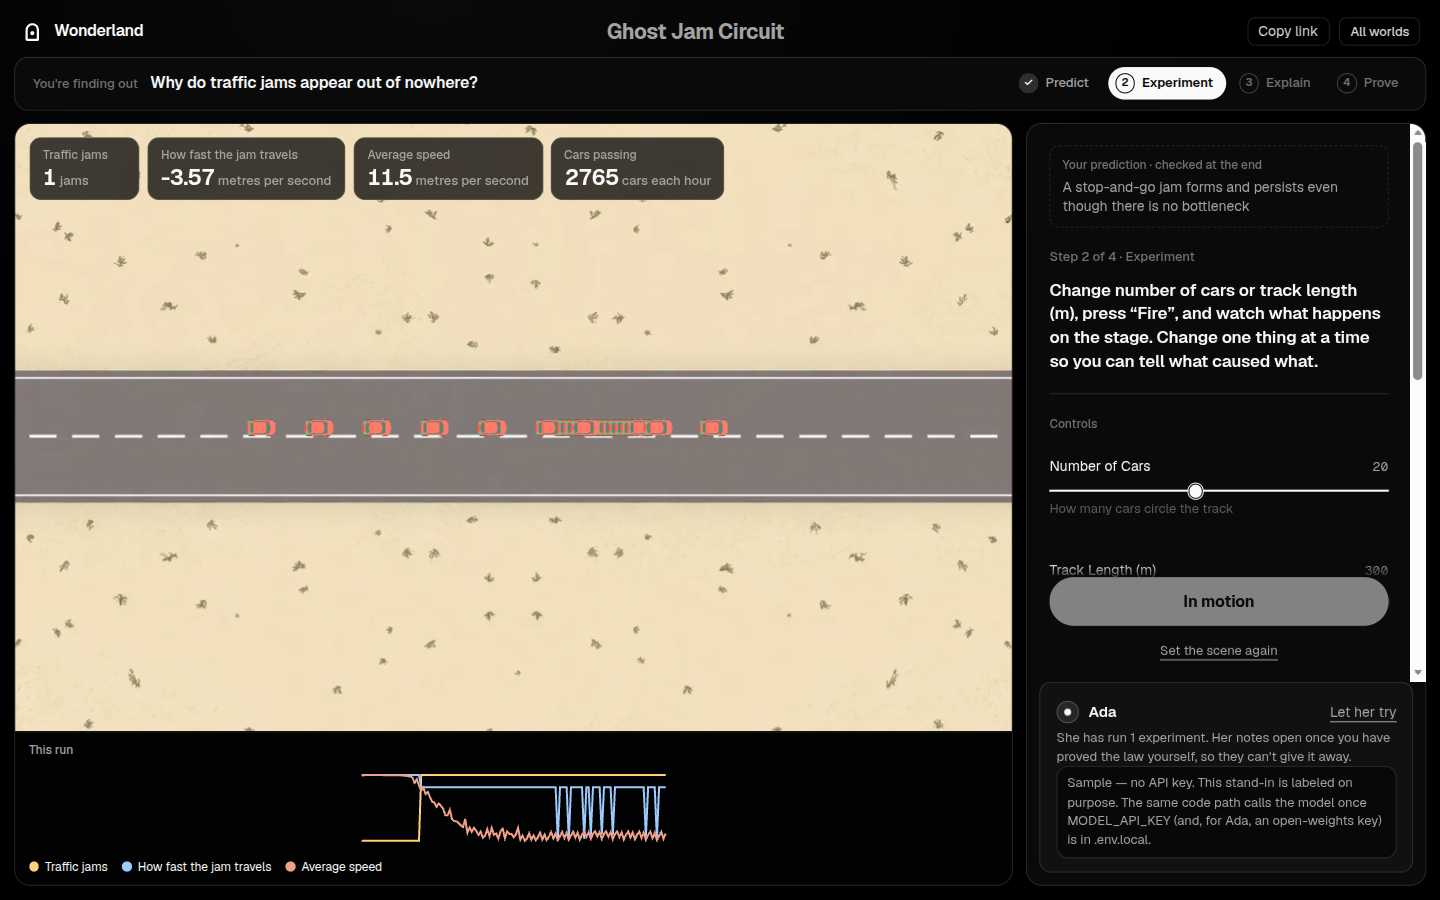
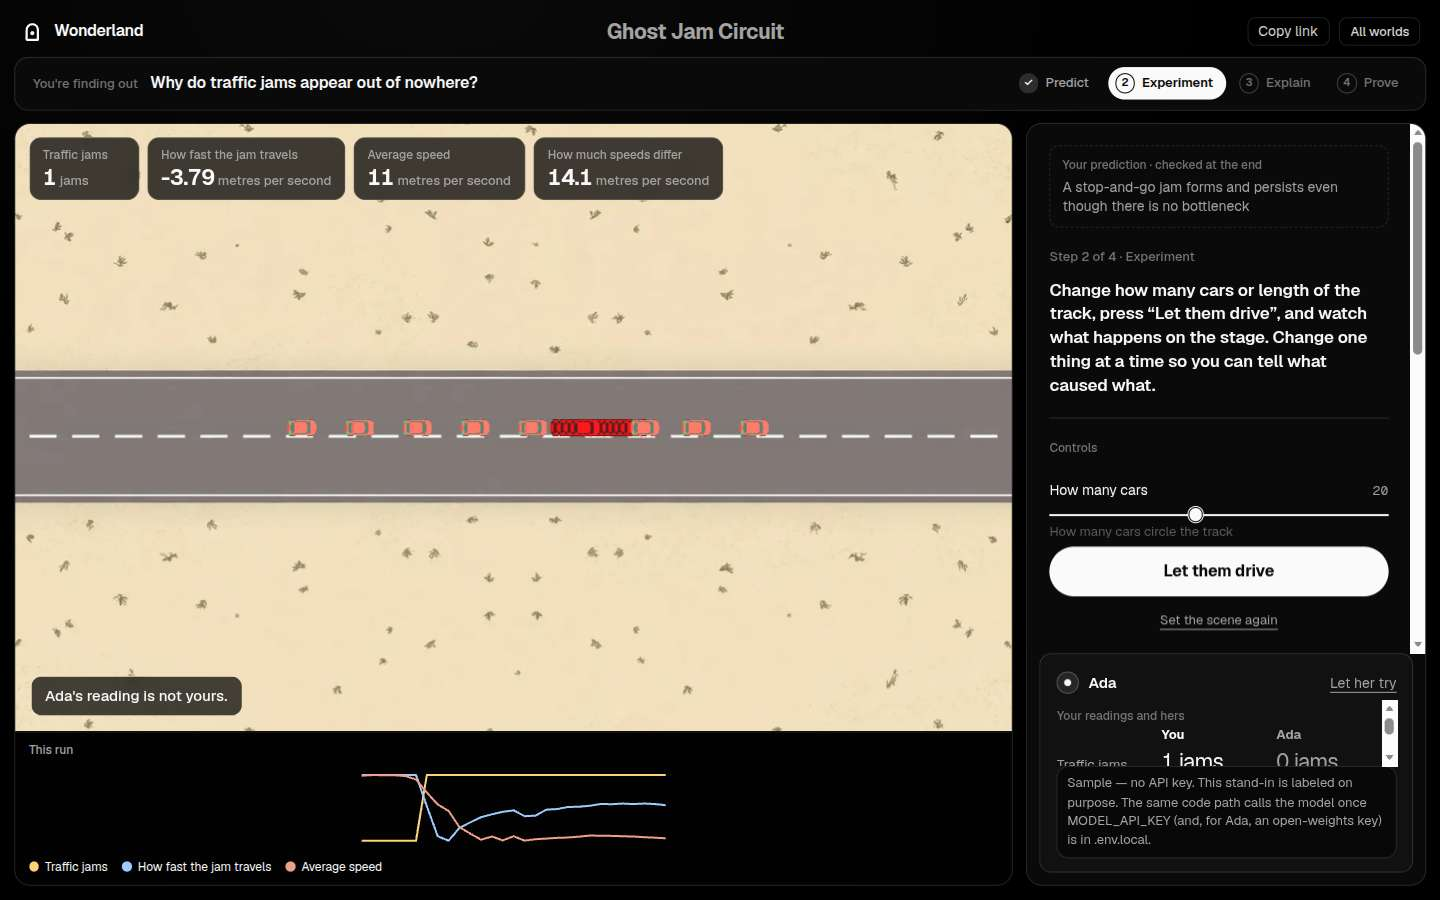
Record the red jam and the plain ring-road controls.

diff --git a/docs/progress/night-1.md b/docs/progress/night-1.md
@@ -101,6 +101,8 @@ The meadow's "flashing in step" was a ramp laid over the real order, so the char
 
 Walking speed on the hallway was the crowd's wished-for pace times a collision formula, so the card stayed near 1.09. Commit `3266c0a`. It is now the share of their usual pace they manage on that step. The two directions face opposite ways, and the button says "Let them walk". On the production server one gesture finishes in about ten seconds at 100% lanes, 0% head-on bumps, and 1 of their usual pace. With sidestepping turned off it ends at 3% lanes, 17% head-on bumps, and 0.83 of their usual pace. The ring road button says "Let them drive". All seven hallway checks pass. `pnpm check` is 232 tests.
 
+Stopped cars on the ring road wore the same painting as the ones still moving, so the jam was only a pile, and the sliders said m/s. Commit `f6ff03b`. A stopped car now goes red. The controls read "How many cars", "Length of the track", "Time to notice", "Speed they aim for", "Gap they keep", and "Brake tap". On the production server one drive finishes in about ten seconds: 1 jam, travelling at -3.79 metres per second, average speed 11 metres per second, speeds differing by 14.1 metres per second. The red knot sits in the line of cars. `pnpm check` is 234 tests.
+
 ## Still blocked on a key
 
 The playtester batch of 12 worlds, capped at $0.60 of Meta, was not run. There is no `MODEL_API_KEY` and no ledger in this checkout. A live `pnpm eval` would stop if the Baseten total reached $4.30. Painting new worlds stays capped at $1.00 of Meta, and was not started.
